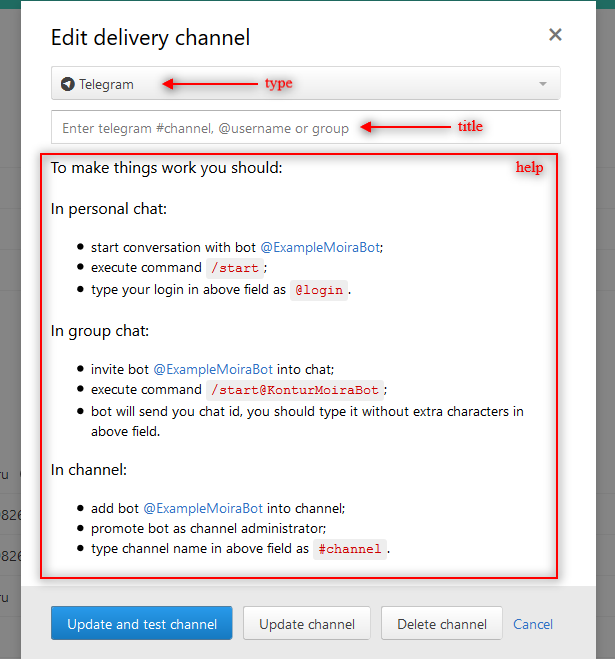
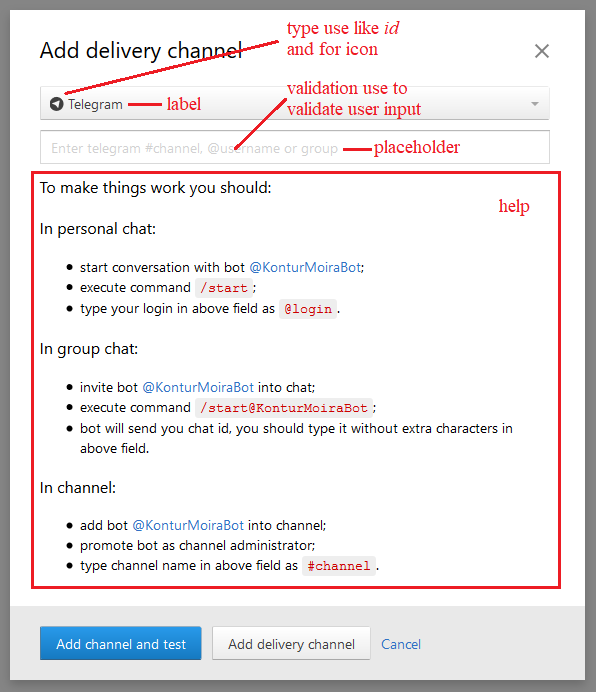
Update config contact contract

Changed region(s): [[0.0, 0.0, 1.0, 1.0], [0.8758, 0.1214, 0.906, 0.1821]]

diff --git a/source/installation/configuration.rst b/source/installation/configuration.rst
@@ -106,15 +106,16 @@ WEB UI
 .. literalinclude:: ../../web.example.json
    :language: json
 
-- `type` — contact type: pushover, slack, mail, script, telegram, twilio sms, twilio voice;
-- `validation` — regular expression for user contact;
-- `title` — hint shown in input field;
-- `help` — help text in Markdown_ markup .
-- `remoteAllowed` — set to ``true`` if `Remote Triggers Checker`_ is enabled.
+- **type** (any uniq string) *required*  — contact type: pushover, slack, mail, script, telegram, twilio sms, twilio voice, etc.;
+- **label** *required* — contact label type. Uses in add/edit contact form in select control;
+- **validation** — regular expression for user contact, uses for validation in add/edit contact form;
+- **placeholder** — hint shown in input field;
+- **help** — help text in Markdown_ markup;
+- **remoteAllowed** — set to ``true`` if `Remote Triggers Checker`_ is enabled.
 
 .. image:: ../_static/web-ui-example.png
    :alt: WEB UI example
-   :width: 400
+   :width: 596
 
 .. _Markdown: https://daringfireball.net/projects/markdown/syntax
 .. _Seyren: https://github.com/scobal/seyren
